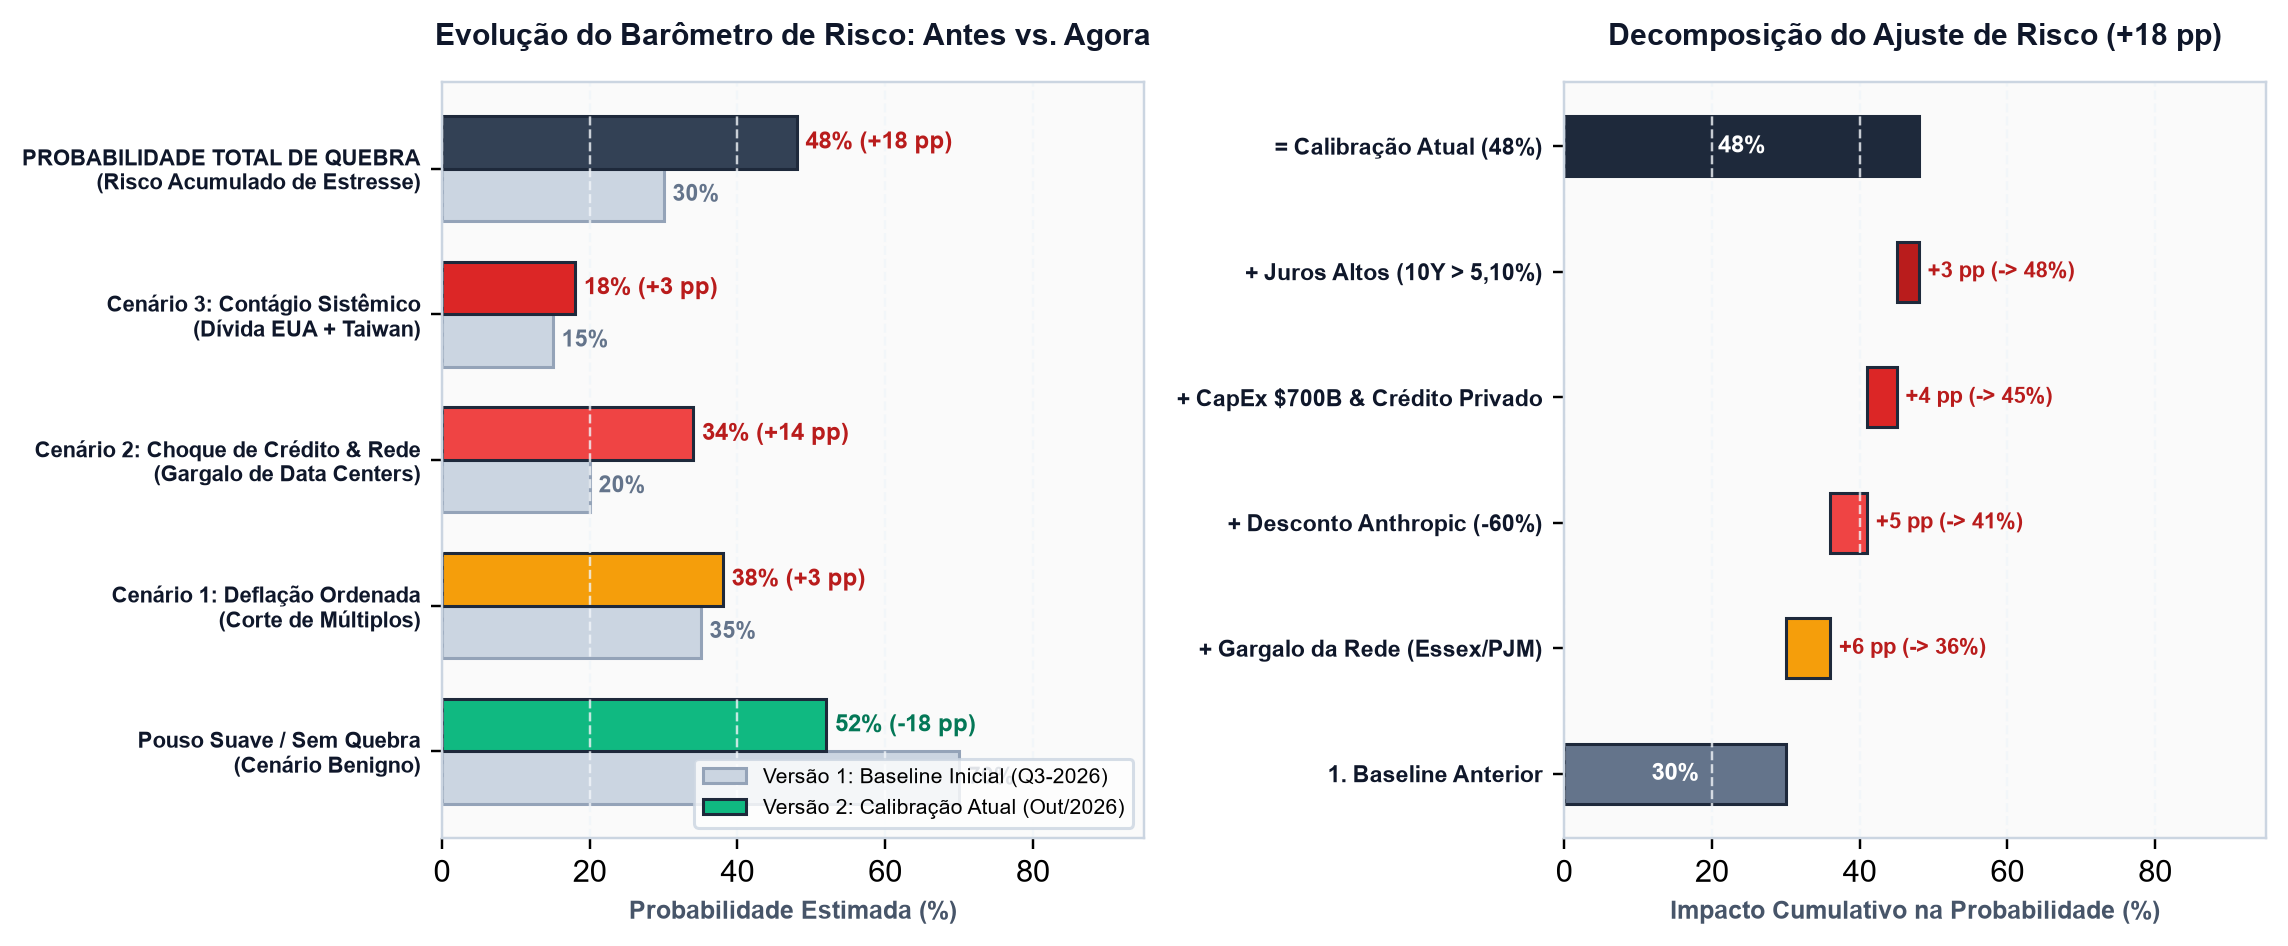
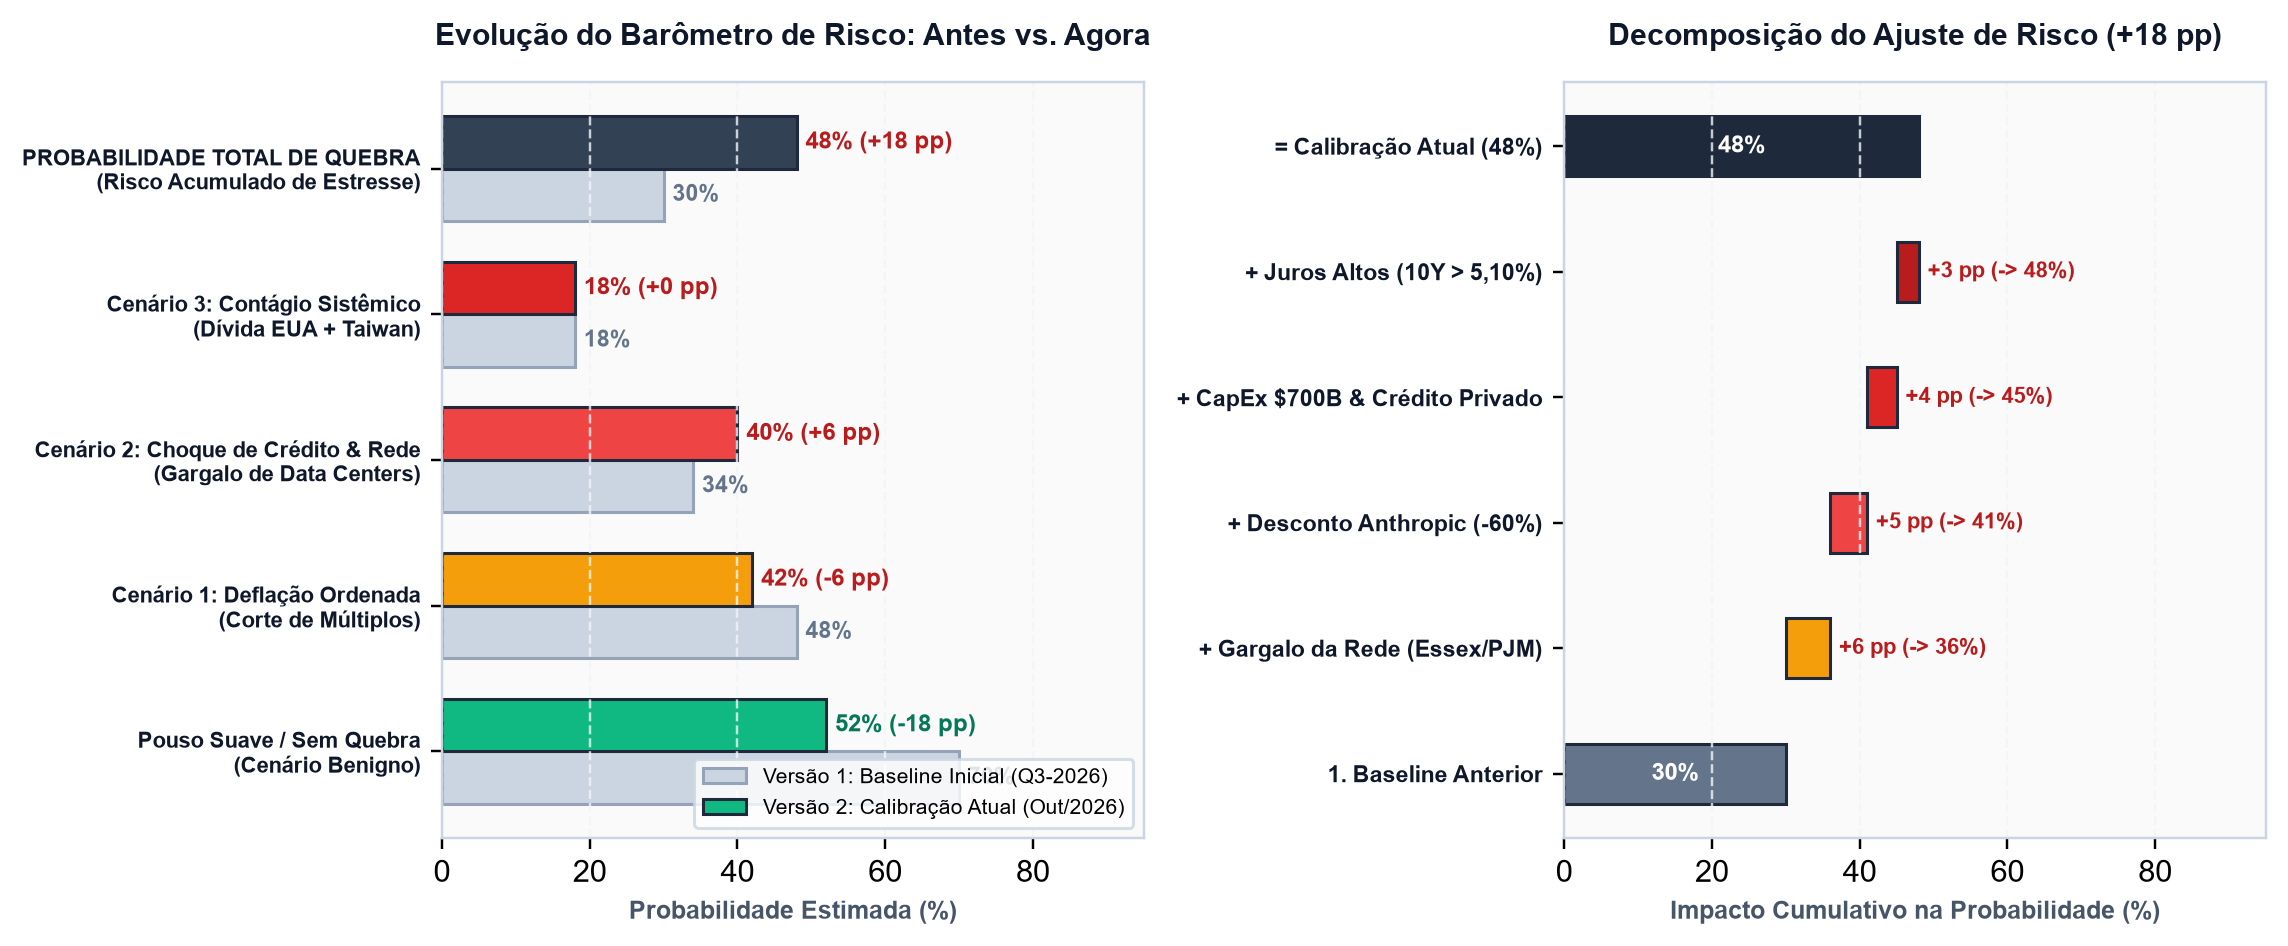
Harmonize all scenario probabilities with Report_Market_Update_Oct2026_Grid_Anthropic

Changed region(s): [[0.2483, 0.4292, 0.3724, 0.5518], [0.2793, 0.5825, 0.3724, 0.7051], [0.2172, 0.3372, 0.2793, 0.3985]]

diff --git a/scripts/generate_crash_gauge_evolution_chart.py b/scripts/generate_crash_gauge_evolution_chart.py
@@ -70,8 +70,8 @@ def generate_evolution_chart():
             title1 = 'Risk Gauge Evolution: Baseline vs. Current'
             xlabel1 = 'Estimated Probability (%)'
 
-        v1_probs = [70.0, 35.0, 20.0, 15.0, 30.0]
-        v2_probs = [52.0, 38.0, 34.0, 18.0, 48.0]
+        v1_probs = [70.0, 48.0, 34.0, 18.0, 30.0]
+        v2_probs = [52.0, 42.0, 40.0, 18.0, 48.0]
 
         y = np.arange(len(categories))
         h = 0.36

diff --git a/README.md b/README.md
@@ -42,10 +42,10 @@
 
 | Risk Dimension / Scenario | Version 1: Initial Baseline (Q3-2026) | Version 2: Current Calibration (Oct-2026) | Trajectory Delta | Probability Regime & Transmission Channel |
 |:---|:---:|:---:|:---:|:---|
-| **Cumulative Stress / Crash Scenario Probability** | **30.0%** | **48.0%** | **+18.0 pp** | Elevated Dislocation Regime (S1 + S2 + S3) |
-| **Scenario 1: Orderly Multiple Compression** | 35.0% | 38.0% | +3.0 pp | Enterprise ROI Normalization & Multiple Re-rating |
-| **Scenario 2: Credit & Grid Dislocation** | 20.0% | 34.0% | +14.0 pp | Infrastructure Delivery Delays & ABS Friction |
-| **Scenario 3: Systemic Global Contagion** | 15.0% | 18.0% | +3.0 pp | Sovereign Yield Pressure & Semiconductor Chokepoint |
+| **Cumulative Stress / Crash Scenario Probability** | **30.0%** | **48.0%** | **+18.0 pp** | Elevated Dislocation Regime (Overall Stress Risk) |
+| **Scenario 1: Orderly Deceleration & Multiple Compression** | 48.0% | 42.0% | -6.0 pp | Enterprise ROI Normalization & Multiple Re-rating |
+| **Scenario 2: Credit & Grid Dislocation Shock** | 34.0% | 40.0% | +6.0 pp | Infrastructure Delivery Delays & ABS Credit Friction |
+| **Scenario 3: Systemic Global Contagion** | 18.0% | 18.0% | 0.0 pp | Sovereign Yield Pressure & Semiconductor Chokepoint |
 | **Benign Soft Landing (Productive Absorption)** | **70.0%** | **52.0%** | **-18.0 pp** | Primary Plausible Outcome (Diminished Margin of Safety) |
 
 *📌 Note: This probability distribution is empirically calibrated via `scripts/fetch_market_pipeline.py` and visualized via `scripts/generate_crash_gauge_evolution_chart.py` based on observed infrastructure and credit data.*
@@ -86,7 +86,7 @@ The October 2026 intelligence update incorporates critical developments in physi
 | **Frontier AI Lab Valuations** | Exponential ARR scaling (>300% YoY); private secondary markets pricing frontier labs (OpenAI, Anthropic) near **$1.5 Trillion** pre-IPO. | **Valuation Haircut & Deceleration**: Anthropic private valuation marked down by **~60% to $600B–$700B**; annual growth decelerated to **~85% YoY** amid enterprise inference cost pressure and open-weight model commoditization. | Impairs equity collateral value; stalls pre-IPO liquidity timelines; triggers multiple compression across public AI software peers. |
 | **Hyperscaler CapEx & Credit Leverage** | Annual CapEx assumed to plateau at ~$350B–$400B, fully funded by organic free cash flow from core advertising and enterprise software. | **$700B Hyper-CapEx & Shadow Debt**: Annual CapEx pace reached **$700 Billion run-rate**, increasingly funded via **off-balance-sheet SPVs and private credit** (Blackstone, Ares, Apollo) rather than cash flow alone. | Shifts credit risk into shadow banking; Debt Service Coverage Ratios (DSCR) breach default covenants ($<1.10x$) if tenant deployments lag. |
 | **Macro Interest Rates & Refinancing** | Projected rapid Federal Reserve rate cuts down to ~3.0%; benign debt rollover for tech issuers. | **Higher-for-Longer & $36.85T Debt**: US 10-Year Treasury yield holding firmly at **5.10%**; US national debt interest outlays surpass **$1.16 Trillion/year**; corporate debt refinancing costs remain elevated. | Widens high-yield credit spreads (`HYG/LQD` ratio compressed to 0.7433); raises hurdle rates for long-duration infrastructure investments. |
-| **Cumulative Crash Probabilities** | Soft-landing / Benign continuation estimated at **70%**; Systemic contagion treated as remote tail-risk (**<15%**). | **Recalibrated Risk Matrix (2026–2029)**:<br>• **Orderly Deflation (S1)**: **38%**<br>• **Credit Dislocation (S2)**: **34%**<br>• **Systemic Contagion (S3)**: **18%**<br>• *Benign Continuation*: Calibrated at **52%** (Cumulative Stress: **48%**). | Subprime AI mechanics transition from theoretical vulnerability to empirical distress triggers. |
+| **Cumulative Crash Probabilities** | Soft-landing / Benign continuation estimated at **70%**; Systemic contagion treated as remote tail-risk (**<15%**). | **Recalibrated Risk Matrix (2026–2029)**:<br>• **Orderly Deceleration (S1)**: **42%** (was 48%)<br>• **Credit & Grid Shock (S2)**: **40%** (was 34%)<br>• **Systemic Contagion (S3)**: **18%** (maintained at 18%)<br>• *Benign Continuation*: Calibrated at **52%** (Cumulative Stress: **48%**). | Subprime AI mechanics transition from theoretical vulnerability to empirical distress triggers. |
 
 <p align="center">
   <img src="assets/charts/en/chart_grid_bottleneck_delays.png" width="440" alt="Grid Bottleneck Delays (EN)"/>
@@ -357,7 +357,7 @@ A atualização de inteligência de outubro de 2026 incorpora desdobramentos cru
 | **Valuations dos Laboratórios de IA** | Escala exponencial de receita ARR (>300% ao ano); transações privadas avaliando laboratórios de ponta (Anthropic, OpenAI) em até **US$ 1,5 Trilhão** pré-IPO. | **Desconto de Valuation e Desaceleração**: Valuation privado da Anthropic reajustado com **corte de ~60% para a faixa de US$ 600B–US$ 700B**; crescimento anual desacelerou para **~85% ao ano** diante do custo de inferência e comoditização por modelos abertos. | Redução drástica no valor de garantias societárias; adiamento de liquidez de IPOs; compressão de múltiplos em todas as empresas de software listadas. |
 | **CapEx dos Hiperscalers e Alavancagem** | Despesas de capital projetadas em patamar de ~US$ 350B–US$ 400B ao ano, 100% bancadas pelo fluxo de caixa operacional das Big Techs sem risco de crédito. | **Hiper-CapEx de US$ 700B e Dívida Sombra**: Ritmo anual de CapEx atingiu **US$ 700 Bilhões**, cada vez mais dependente de **SPEs fora do balanço e crédito privado** (Blackstone, Ares, Apollo) em vez de caixa puro. | Migração do risco para o setor bancário sombra; índices de cobertura da dívida (ICSD) caem abaixo de $1,10x$ caso as locações sofram atrasos operacionais. |
 | **Taxas de Juros Macro e Dívida Soberana** | Expectativa de corte rápido de juros pelo Federal Reserve para ~3,0%; refinanciamento tranquilo de dívidas corporativas de tecnologia. | **Juros Altos por Mais Tempo e Dívida de US$ 36,85T**: Yield dos Treasuries de 10 anos firme em **5,10%**; despesa anual com juros da dívida americana supera **US$ 1,16 Trilhão/ano**; custo de refinanciamento corporativo segue elevado. | Abertura de spreads de crédito corporativo (razão `HYG/LQD` em 0,7433); aumento na taxa de desconto de projetos de infraestrutura de longo prazo. |
-| **Probabilidades de Quebra Acumuladas** | Cenário benigno / "pouso suave" estimado em **70%**; contágio sistêmico considerado risco de cauda desprezível (**<15%**). | **Matriz de Risco Recalibrada (2026–2029)**:<br>• **Deflação Ordenada (S1)**: **38%**<br>• **Deslocamento de Crédito (S2)**: **34%**<br>• **Contágio Sistêmico Global (S3)**: **18%**<br>• *Continuação Benigna*: Calibrada em **52%** (Estresse Acumulado: **48%**). | A mecânica do subprime de IA deixa de ser uma vulnerabilidade teórica e passa a apresentar gatilhos empíricos de inadimplência. |
+| **Probabilidades de Quebra Acumuladas** | Cenário benigno / "pouso suave" estimado em **70%**; contágio sistêmico considerado risco de cauda desprezível (**<15%**). | **Matriz de Risco Recalibrada (2026–2029)**:<br>• **Desaceleração Ordenada (S1)**: **42%** (era 48%)<br>• **Choque de Crédito & Rede (S2)**: **40%** (era 34%)<br>• **Contágio Sistêmico Global (S3)**: **18%** (mantida em 18%)<br>• *Continuação Benigna*: Calibrada em **52%** (Estresse Acumulado: **48%**). | A mecânica do subprime de IA deixa de ser uma vulnerabilidade teórica e passa a apresentar gatilhos empíricos de inadimplência. |
 
 <p align="center">
   <img src="assets/charts/pt/chart_grid_bottleneck_delays.png" width="440" alt="Gargalos da Rede Elétrica (PT)"/>
